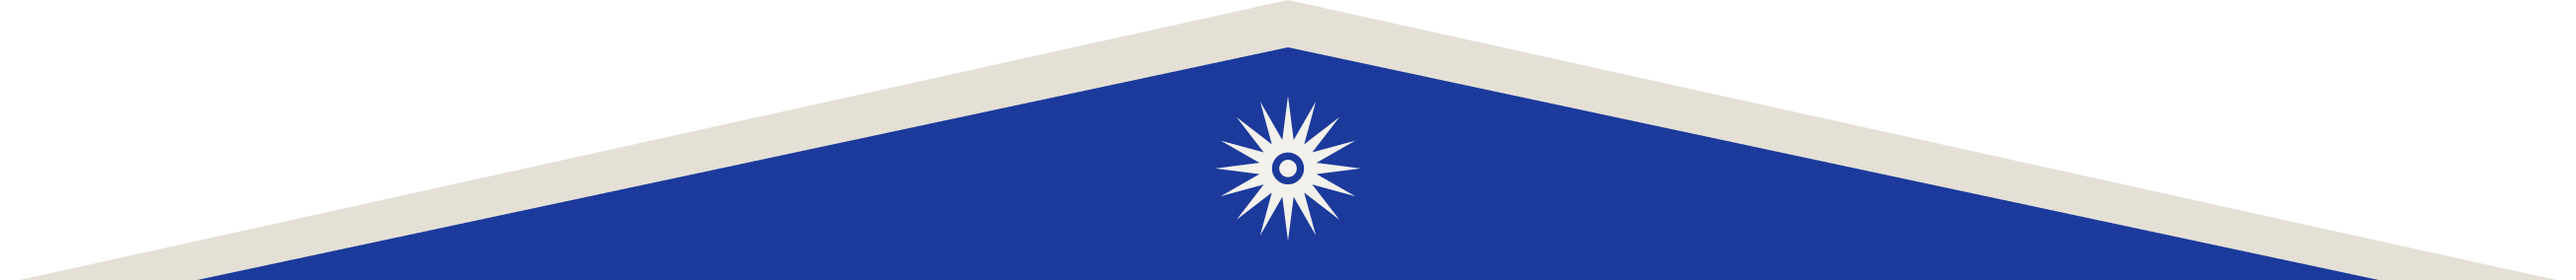
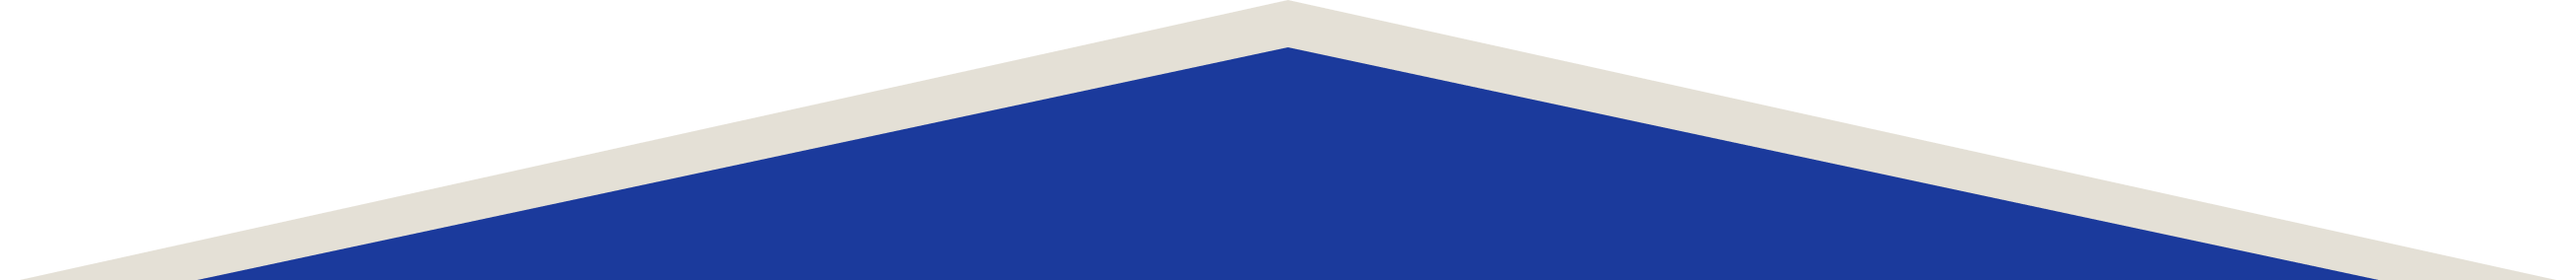
Keep the roof sun from stretching
Split the sun out of the pediment image into its own asset so it keeps
its aspect ratio while the triangle stretches to the screen width. Its
width is capped at 8% of the roof so it stays inside the blue triangle.

Changed region(s): [[0.4666, 0.3944, 0.5288, 0.8169]]

diff --git a/client/src/components/components.css b/client/src/components/components.css
@@ -40,11 +40,26 @@
   font-family: var(--font-body);
 }
 
+.temple__roof {
+  position: relative;
+}
+
+/* The triangle stretches with the screen; the sun is a separate image so it never does. */
 .temple__pediment {
   display: block;
   width: 100%;
   height: 142px;
   object-fit: fill;
+}
+
+/* Centred where the sun sat in the original artwork (85px down). Capping the width
+   at 8% of the roof keeps it inside the blue triangle as the triangle narrows. */
+.temple__sun {
+  position: absolute;
+  top: 85px;
+  left: 50%;
+  width: min(72px, 8%);
+  transform: translate(-50%, -50%);
 }
 
 .temple__beam {

diff --git a/client/src/components/TempleLayout.jsx b/client/src/components/TempleLayout.jsx
@@ -1,4 +1,5 @@
 import roofImg from '../assets/temple-roof.png';
+import sunImg from '../assets/temple-sun.png';
 import bustImg from '../assets/alexander-bust.png';
 import './components.css';
 import './pillar.css';
@@ -30,6 +31,7 @@ export default function TempleLayout({ children }) {
     <div className="temple">
       <header className="temple__roof" aria-hidden="true">
         <img className="temple__pediment" src={roofImg} alt="" />
+        <img className="temple__sun" src={sunImg} alt="" />
         <div className="temple__beam" />
         <div className="temple__frieze" />
       </header>
